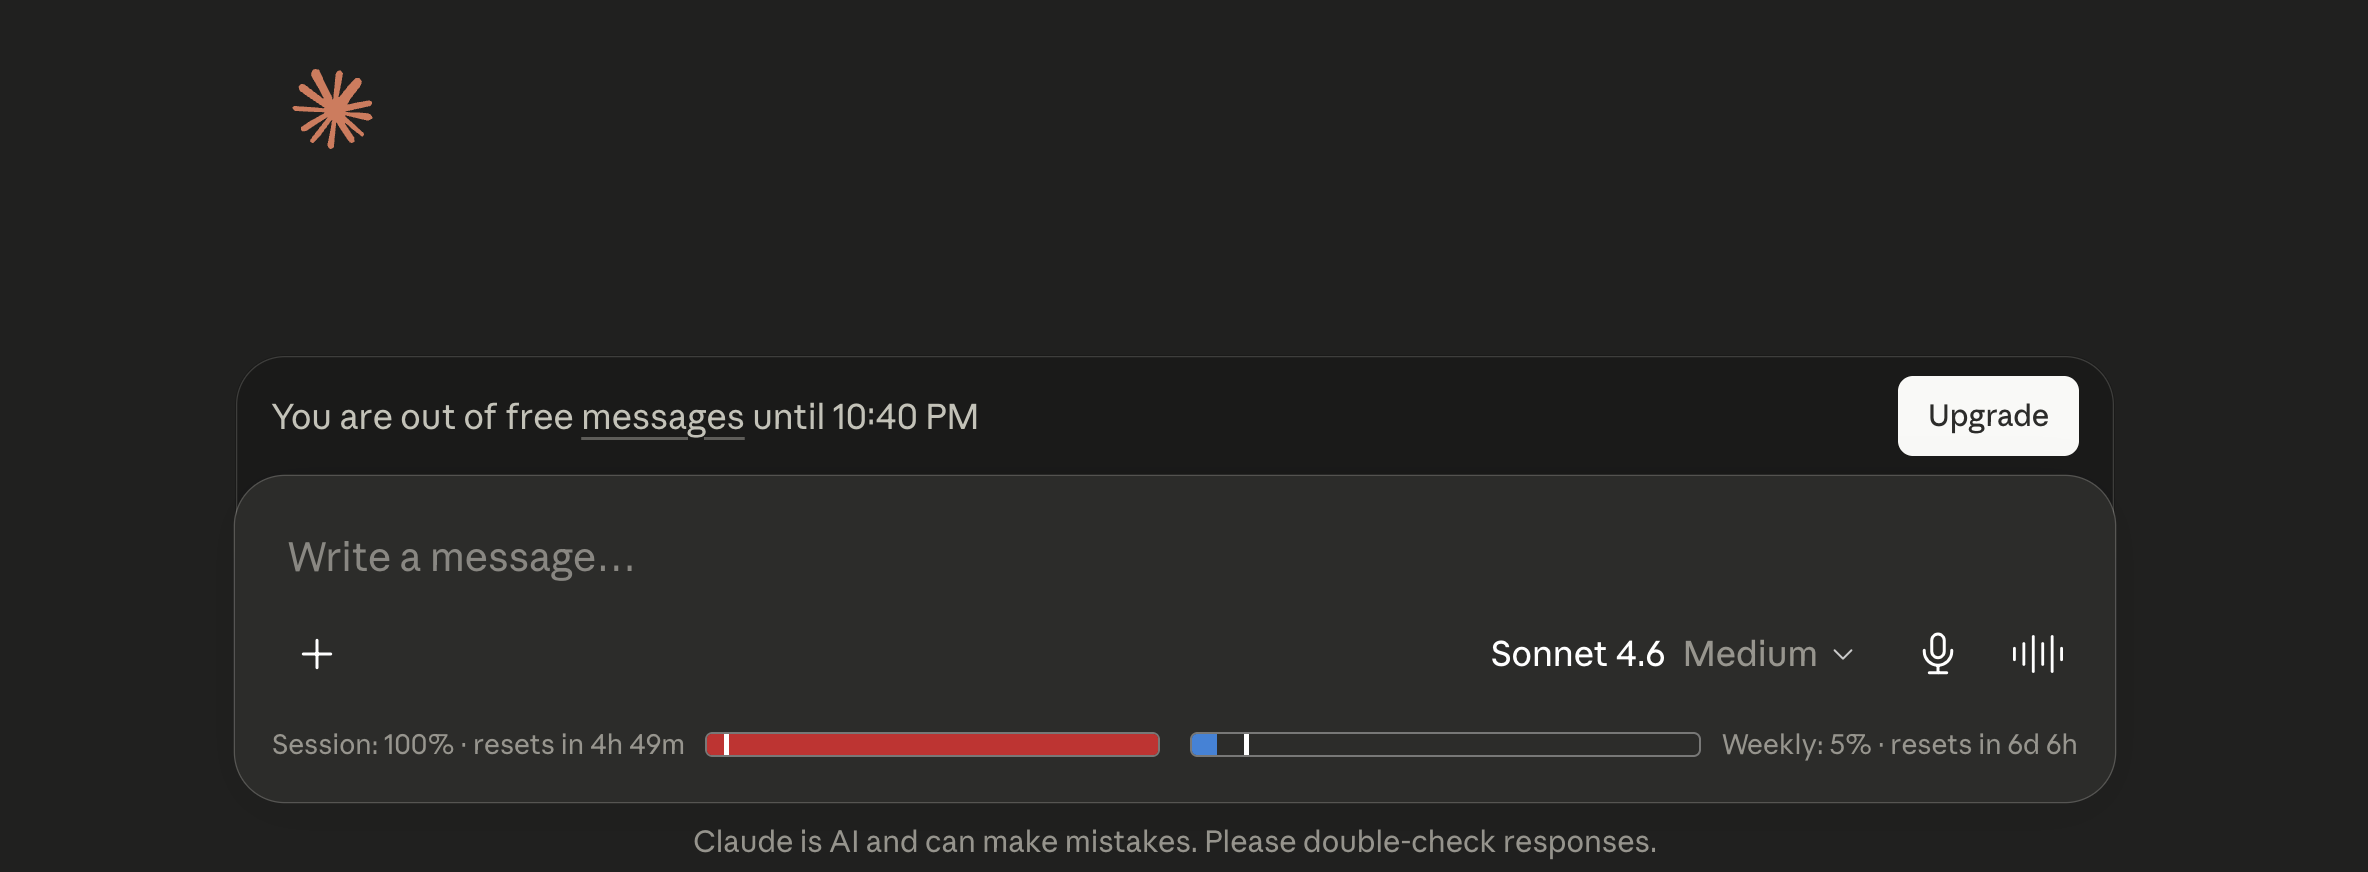
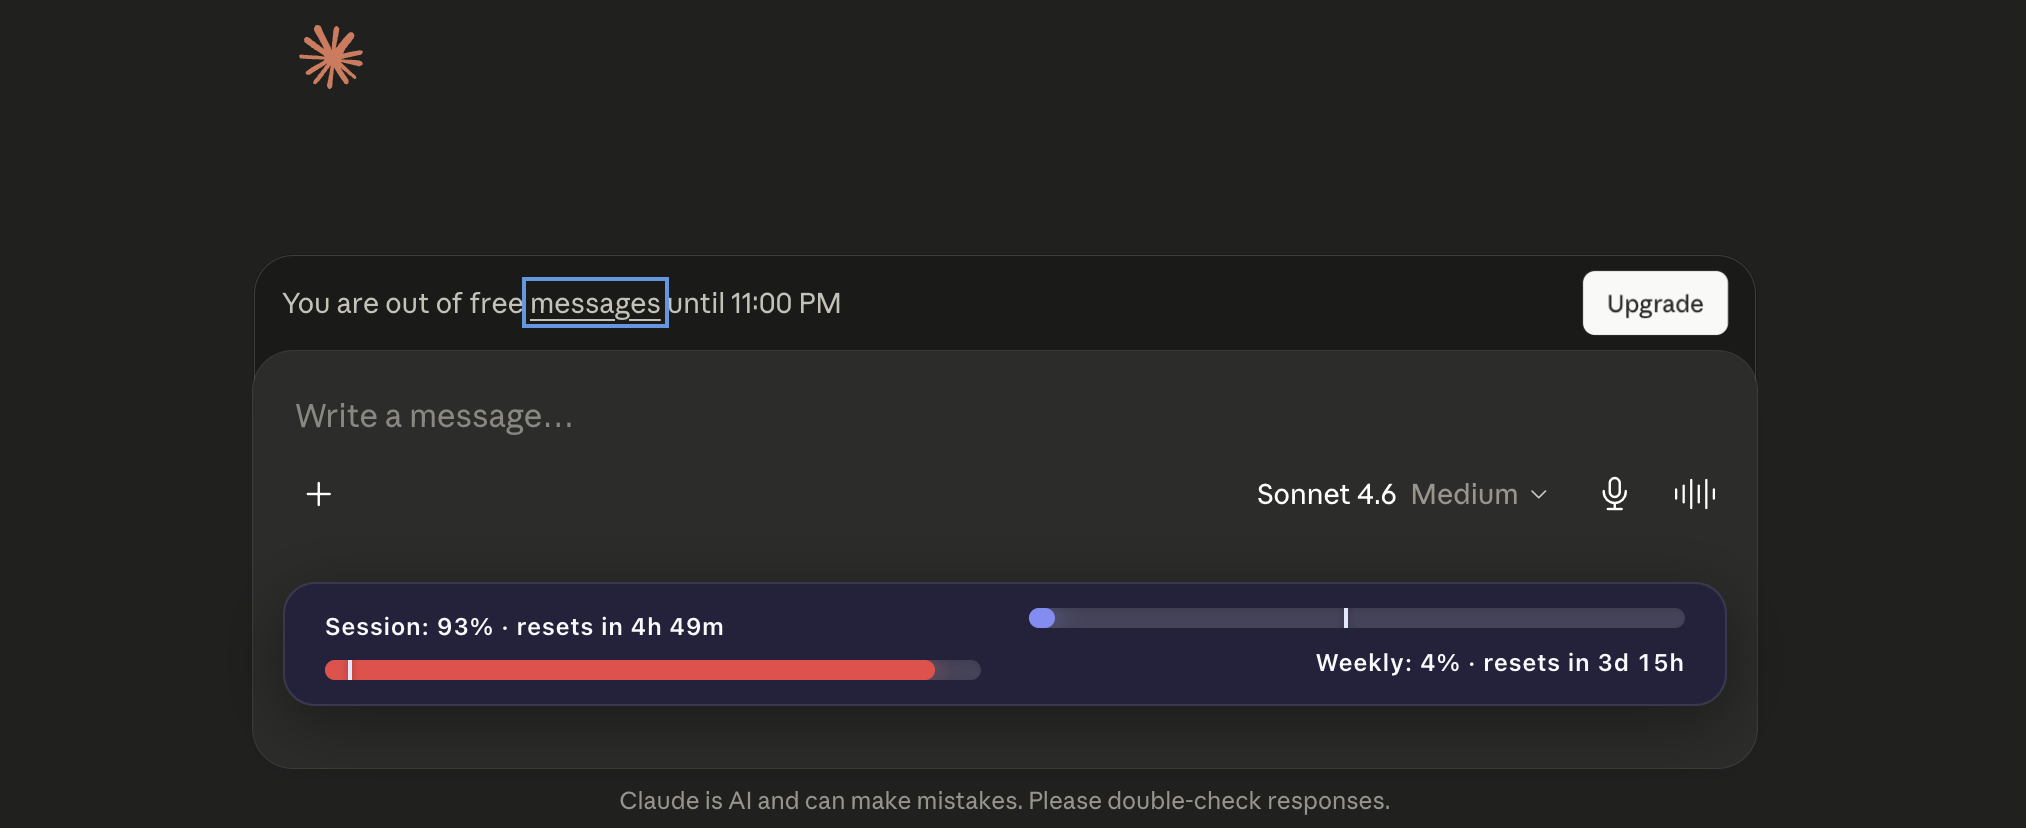
docs: update screenshot again

diff --git a/README.md b/README.md
@@ -2,7 +2,7 @@
 
 > A premium browser extension that displays real-time token count, cache timer, and usage tracking on [claude.ai](https://claude.ai) — with a beautiful glassmorphic design.
 
-![Claude Counter screenshot](./screenshot.png?v=2)
+![Claude Counter screenshot](./screenshot.png?v=3)
 
 ## ✨ Features
 
